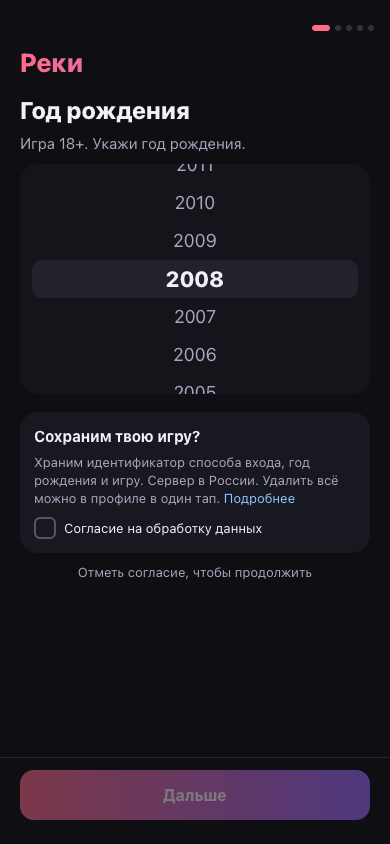
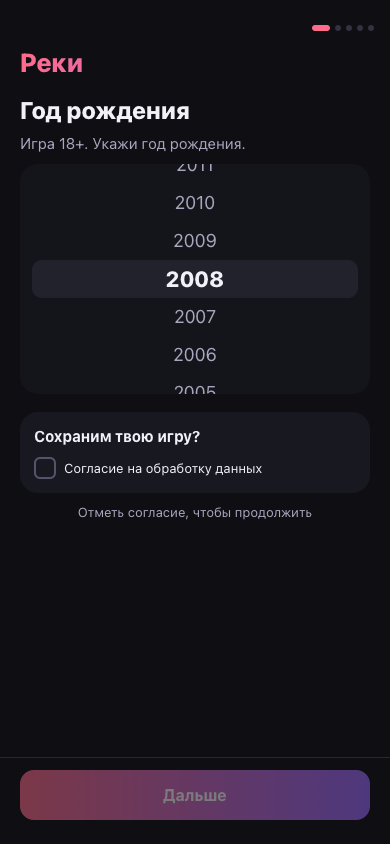
ui: убрать поясняющий абзац из согласия #324

diff --git a/frontend/src/screens/onboarding.tsx b/frontend/src/screens/onboarding.tsx
@@ -94,8 +94,7 @@ function Age() {
         </div>
         <Card style={{ marginTop: 18 }}>
           <b>Сохраним твою игру?</b>
-          <div className="small muted" style={{ margin: '6px 0 10px' }}>Храним идентификатор способа входа, год рождения и игру. Сервер в России. Удалить всё можно в профиле в один тап. <span style={{ color: '#8CC8FF' }}>Подробнее</span></div>
-          <label className="row" style={{ gap: 8 }}>
+          <label className="row" style={{ gap: 8, marginTop: 10 }}>
             <button onClick={() => setAgree(!agree)} aria-pressed={agree} style={{ width: 22, height: 22, borderRadius: 6, border: agree ? 'none' : '2px solid #55536A', background: agree ? 'var(--grad)' : 'none', color: '#fff', fontSize: 14 }}>{agree ? '✓' : ''}</button>
             <span className="small">Согласие на обработку данных</span>
           </label>
